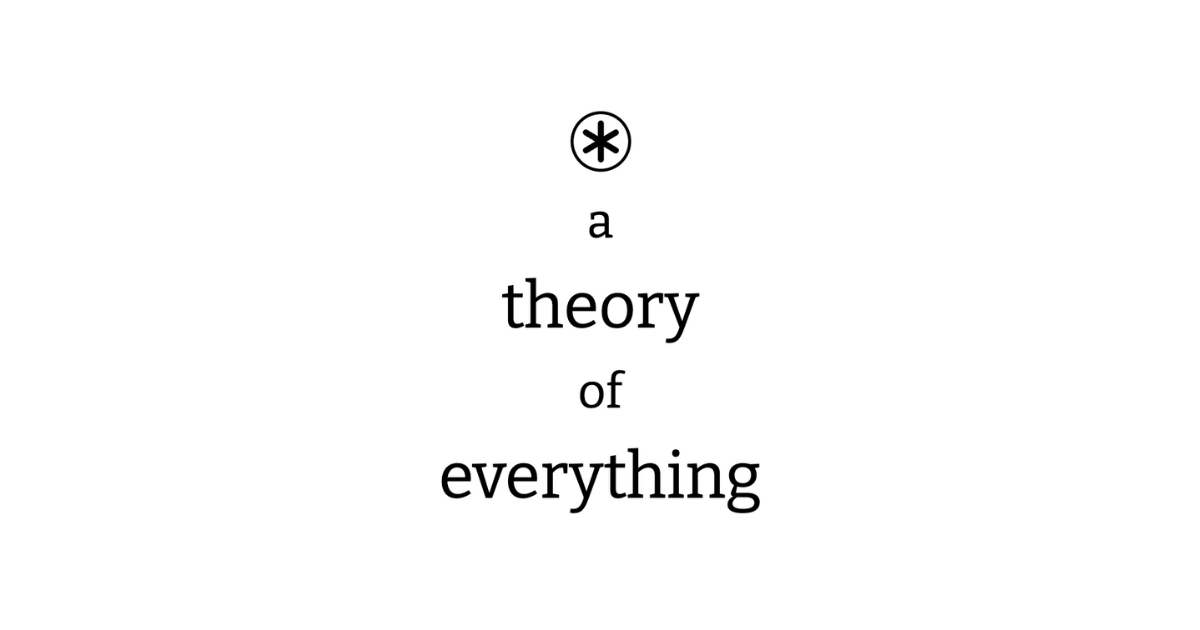
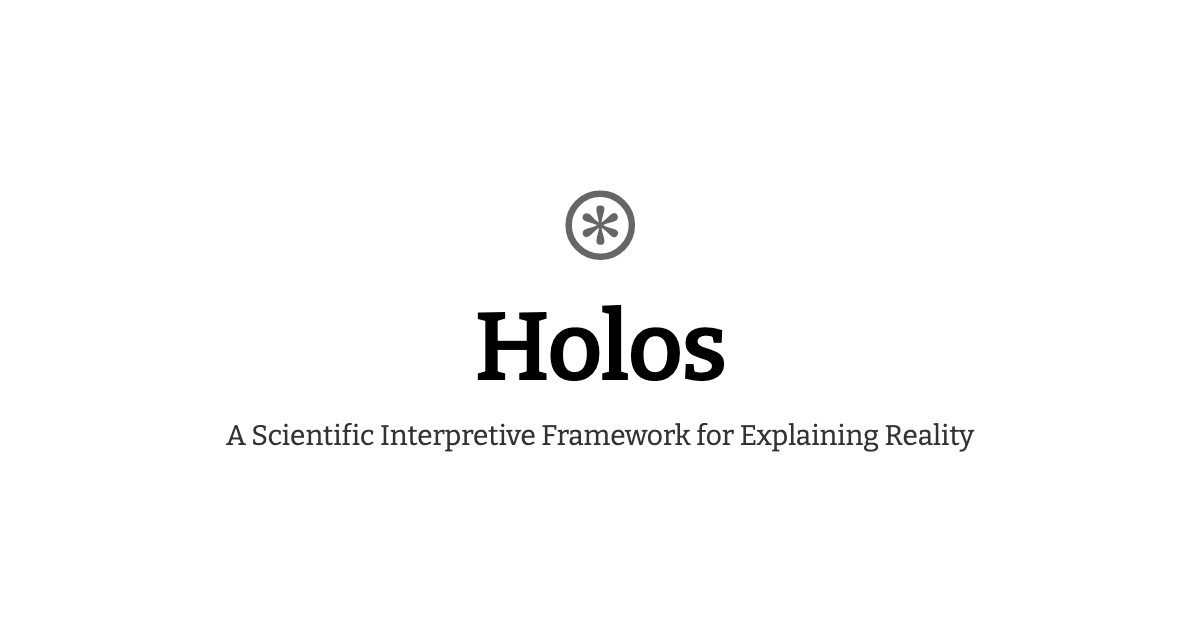
Create script to generate images with Holos symbol

Changed region(s): [[0.185, 0.4222, 0.8017, 0.8143], [0.4625, 0.3016, 0.555, 0.4222], [0.4625, 0.181, 0.5242, 0.2714]]

diff --git a/scripts/generate-images.ts b/scripts/generate-images.ts
@@ -1,0 +1,106 @@
+import puppeteer from "puppeteer";
+import { writeFileSync } from "fs";
+import { join } from "path";
+
+async function generateImages() {
+  const browser = await puppeteer.launch({
+    headless: true,
+    args: ["--no-sandbox", "--disable-setuid-sandbox"],
+  });
+
+  try {
+    const page = await browser.newPage();
+    
+    // Set viewport to match image dimensions
+    await page.setViewport({ width: 1200, height: 630 });
+
+    // HTML for the image
+    const html = `
+      <!DOCTYPE html>
+      <html>
+        <head>
+          <meta charset="utf-8">
+          <link rel="preconnect" href="https://fonts.googleapis.com">
+          <link rel="preconnect" href="https://fonts.gstatic.com" crossorigin>
+          <link href="https://fonts.googleapis.com/css2?family=Bitter:wght@400;600;700&display=swap" rel="stylesheet">
+          <style>
+            * {
+              margin: 0;
+              padding: 0;
+              box-sizing: border-box;
+            }
+            body {
+              width: 1200px;
+              height: 630px;
+              display: flex;
+              flex-direction: column;
+              align-items: center;
+              justify-content: center;
+              background: #ffffff;
+              font-family: 'Bitter', serif;
+              padding: 80px;
+            }
+            .symbol {
+              font-size: 120px;
+              line-height: 1;
+              margin-bottom: 20px;
+              margin-top: -15px;
+              font-weight: 400;
+              color: rgba(0, 0, 0, 0.6);
+              font-family: 'Times New Roman', Times, serif;
+            }
+            .holos-text {
+              font-size: 96px;
+              font-weight: 600;
+              line-height: 1;
+              margin-bottom: 20px;
+              color: #000;
+              letter-spacing: -0.02em;
+            }
+            .subtitle {
+              font-size: 28px;
+              font-weight: 400;
+              line-height: 1.4;
+              color: #333;
+              text-align: center;
+              max-width: 900px;
+            }
+          </style>
+        </head>
+        <body>
+          <div class="symbol">⊛</div>
+          <div class="holos-text">Holos</div>
+          <div class="subtitle">A Scientific Interpretive Framework for Explaining Reality</div>
+        </body>
+      </html>
+    `;
+
+    await page.setContent(html, { waitUntil: "networkidle0" });
+
+    // Generate opengraph image
+    const opengraphBuffer = await page.screenshot({
+      type: "png",
+      clip: { x: 0, y: 0, width: 1200, height: 630 },
+    });
+    writeFileSync(
+      join(process.cwd(), "app", "opengraph-image.png"),
+      opengraphBuffer
+    );
+    console.log("✓ Generated opengraph-image.png");
+
+    // Generate twitter image (same design)
+    const twitterBuffer = await page.screenshot({
+      type: "png",
+      clip: { x: 0, y: 0, width: 1200, height: 630 },
+    });
+    writeFileSync(
+      join(process.cwd(), "app", "twitter-image.png"),
+      twitterBuffer
+    );
+    console.log("✓ Generated twitter-image.png");
+  } finally {
+    await browser.close();
+  }
+}
+
+generateImages().catch(console.error);
